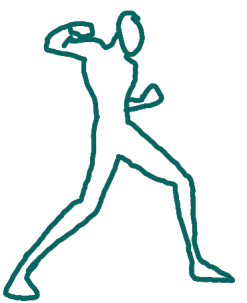
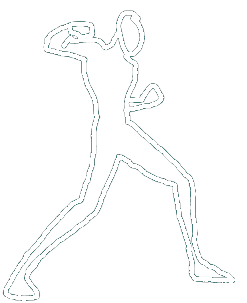
adjusted sprites to player colors

diff --git a/quantumQuarrel/Classes/Player.cpp b/quantumQuarrel/Classes/Player.cpp
@@ -64,6 +64,7 @@ bool Player::init(int gravStrength, TMXTiledMap* initMap, Rect initBoundingBox, 
 		ValueMap spawnPoint = objectGroup->getObject("SpawnPointP1");
 		Spawnpoint = Vec2(spawnPoint.at("x").asInt() * _CurMap->getScaleX(), spawnPoint.at("y").asInt()* _CurMap->getScaleY());
 		orientation = 1; // Facing towards the right side of the screen
+		playerSprite->setColor(Color3B::BLUE);
 		//Will need a loop to instantiate all of the animation types
 		loadAnimations();
 	}
@@ -71,7 +72,7 @@ bool Player::init(int gravStrength, TMXTiledMap* initMap, Rect initBoundingBox, 
 		ValueMap spawnPoint = objectGroup->getObject("SpawnPointP2");
 		Spawnpoint = Vec2(spawnPoint.at("x").asInt() * _CurMap->getScaleX(), spawnPoint.at("y").asInt() * _CurMap->getScaleY());
 		orientation = -1; // Facing towards the left side of the screen
-		playerSprite = Sprite::create("ball_blue.png");
+		playerSprite->setColor(Color3B::RED);
 
 	}
 	position = Spawnpoint;
@@ -152,6 +153,7 @@ void Player::loadAnimations() {
 }
 
 void Player::update(float dt) { // dt is in seconds
+
 	isAttacking = false;
 	if (isStuned) {
 		velocity = Vec2(0, 0);
@@ -400,6 +402,7 @@ void Player::update(float dt) { // dt is in seconds
 	position += velocity * dt;
 	footPos = Vec2(position.x, position.y - (height / 2));
 	playerSprite->setPosition(position);
+
 }
 bool Player::hitDeathPlane(Vec2 currentPosition) {
 	Vec2 tileCoord = tileCoordForPosition(currentPosition);
